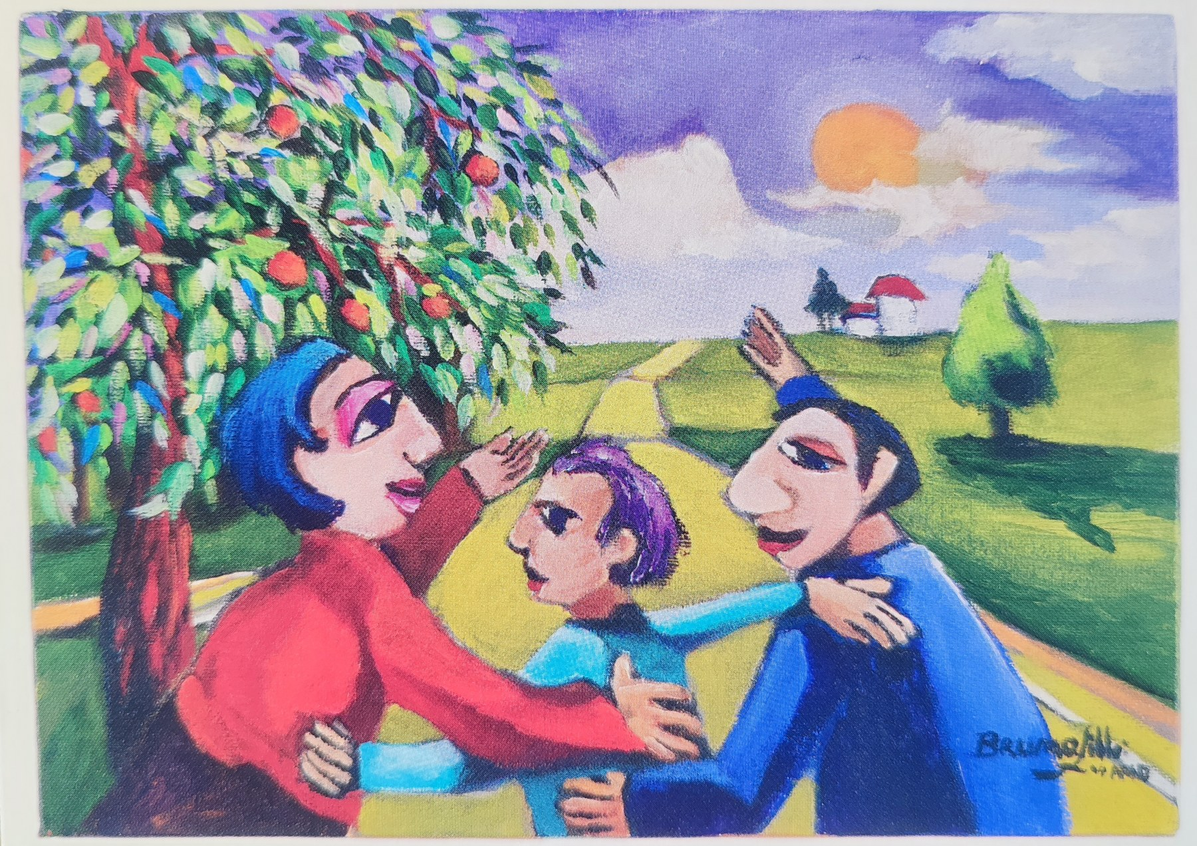
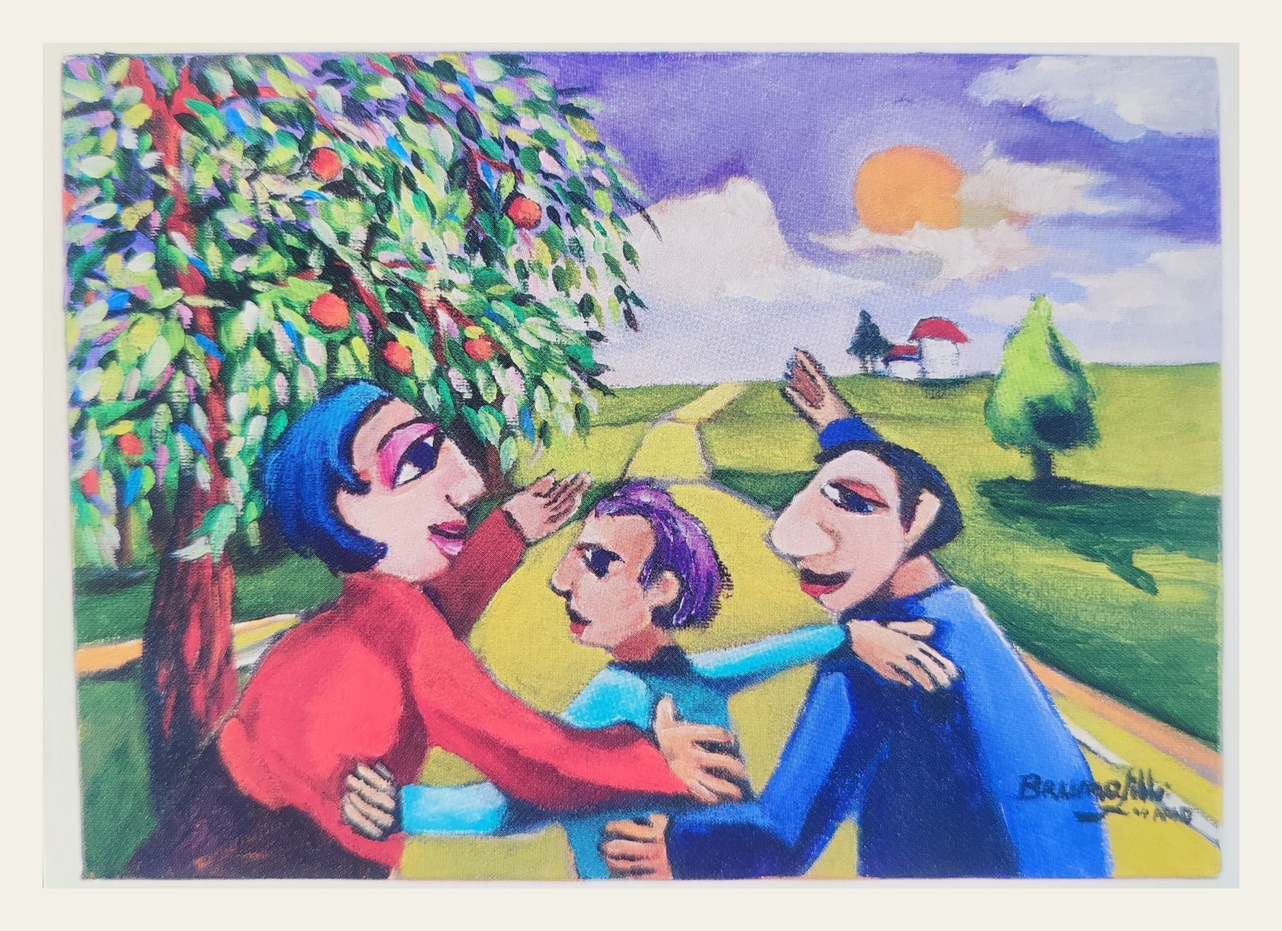
server: review postcards get a white edge on a dark mat
The app stages the opening only when it finds the card outline; the art
alone bled into the light page and the opening fell back to the drawn card.

Claude-Session: https://claude.ai/code/session_01Kmh9UrK98kjZn3VbNUVGg3

diff --git a/server/src/remanence/api/legal.py b/server/src/remanence/api/legal.py
@@ -61,11 +61,12 @@ REVIEW_HEADERS = HEADERS | {"Content-Security-Policy": "default-src 'none'; img-
 
 @router.get("/review", response_class=HTMLResponse)
 def review():
-    card = lambda name, caption: f"""<figure style="margin:16px 0 28px"><a href="/review/{name}.jpg"><img src="/review/{name}.jpg" alt="{caption}"
-style="width:100%;height:auto;display:block;box-shadow:0 2px 12px rgba(0,0,0,.18)"></a><figcaption style="font-size:15px">{caption} · <a href="/review/{name}.jpg" download>download</a></figcaption></figure>"""
+    # A dark mat gives the card's white edge contrast on every side, so the app finds its outline.
+    card = lambda name, caption: f"""<figure style="margin:16px 0 28px"><a href="/review/{name}.jpg" style="display:block;background:#1d1f22;padding:9%"><img src="/review/{name}.jpg" alt="{caption}"
+style="width:100%;height:auto;display:block"></a><figcaption style="font-size:15px;margin-top:8px">{caption} · <a href="/review/{name}.jpg" download>download</a></figcaption></figure>"""
     return page("Remanence review instructions", f"""
 <p>Steps for reviewing the Remanence Android app. The test account email, password and recovery code are in the App access instructions in Play Console, not on this page.</p>
-<p>You need Android 9 or newer with a screen lock. Remanence opens a postcard from a photo of its front, so show the postcards below on another screen (a laptop or monitor) or print them. Keep the whole picture in the camera frame and avoid glare.</p>
+<p>You need Android 9 or newer with a screen lock. Remanence opens a postcard from a photo of its front, so show the postcards below on another screen (a laptop or monitor, full size) or print them. Keep the whole card with its white edge in the camera frame and avoid glare.</p>
 <h2>1. Sign in</h2>
 <p>Tap <b>continue with Google</b> and sign in with the test account. When the app asks to confirm with your passkey, choose the Remanence passkey saved in Google Password Manager. If Google asks to unlock Password Manager on this device, enter the PIN from the Play Console instructions. If the passkey is not available, tap <b>use a recovery code instead</b> and enter the recovery code from Play Console.</p>
 <h2>2. Open the postcard waiting for you</h2>
